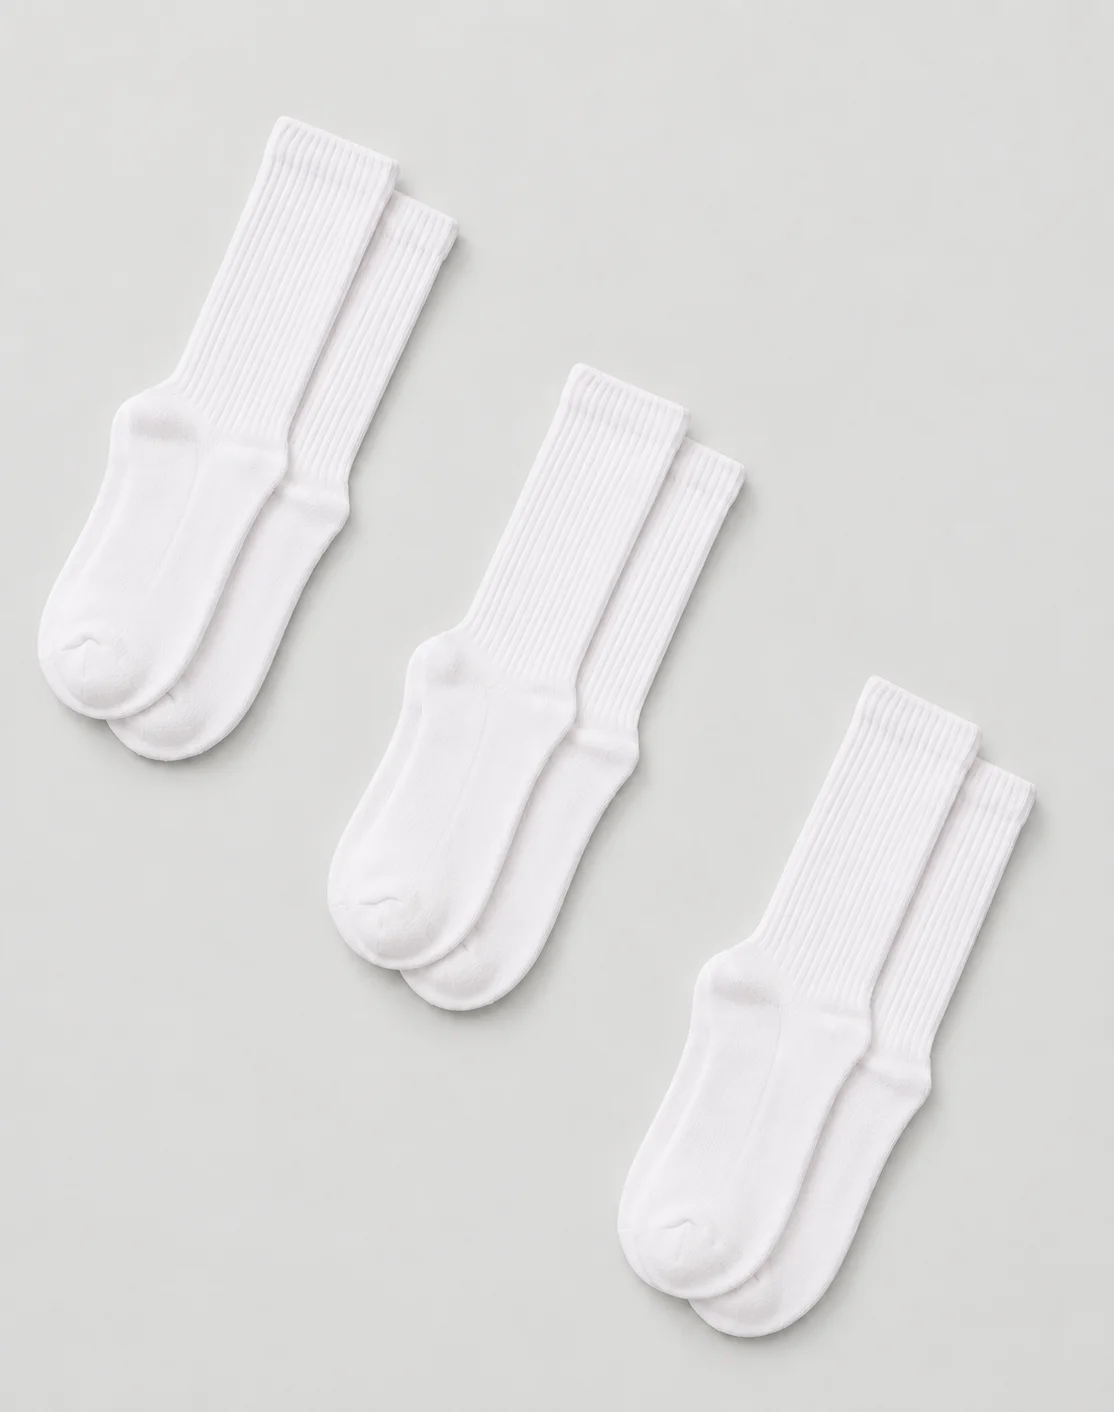
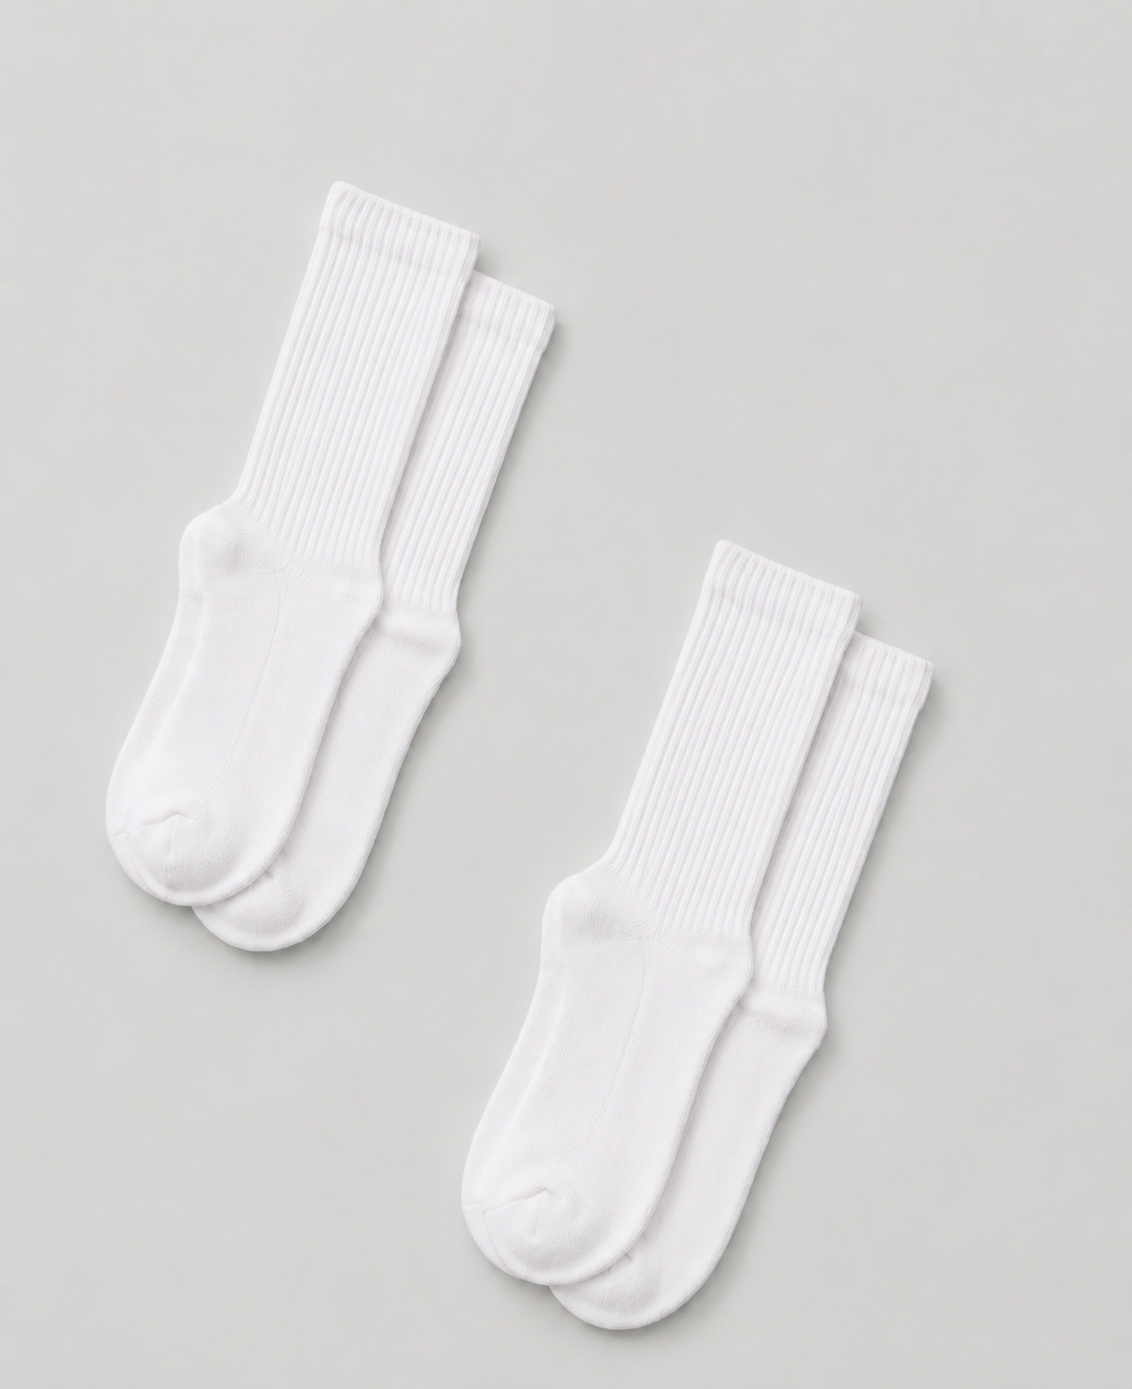
pagina final

diff --git a/uniformes-tienda/src/assets/cumbres.js b/uniformes-tienda/src/assets/cumbres.js
@@ -1,12 +1,10 @@
 import imgCamisetaBambolino from "./Cumbres/_07A9588.webp";
 import imgChompaBambolino1 from "./Cumbres/_07A9459.webp";
-import imgChompaBambolino2 from "./Cumbres/_07A9464.webp";
 import imgDelantalBambolino from "./Cumbres/_07A9606.webp";
 import imgPavaBambolino from "./Cumbres/_07A9570.webp";
 import imgGorraBambolino from "./Cumbres/_07A9576.webp";
 
 import imgSacoTejidoV from "./Cumbres/_07A9472.webp";
-import imgChompaBlancaFem1 from "./Cumbres/_07A9487.webp";
 import imgChompaBlancaFem2 from "./Cumbres/_07A9488.webp";
 import imgDelantalVerdeFem from "./Cumbres/_07A9618.webp";
 import imgFaldaCuadros from "./Cumbres/_07A9473.webp";
@@ -16,7 +14,6 @@ import imgCamisaGalaMasc2 from "./Cumbres/_07A9417.webp";
 import imgDelantalAzulNino from "./Cumbres/_07A9422.webp";
 import imgChompaAzulMasc from "./Cumbres/_07A9450.webp";
 import imgCamisetaFisicaMasc1 from "./Cumbres/_07A9426.webp";
-import imgCamisetaFisicaMasc2 from "./Cumbres/_07A9427.webp";
 
 import imgBlusaGalaHS from "./Cumbres/_07A9499.webp";
 import imgPoloDamaHS from "./Cumbres/_07A9506.webp";
@@ -41,12 +38,10 @@ import imgMediasBlancasFisica from "./Cumbres/medias blancas fisica.webp";
 export {
   imgCamisetaBambolino,
   imgChompaBambolino1,
-  imgChompaBambolino2,
   imgDelantalBambolino,
   imgPavaBambolino,
   imgGorraBambolino,
   imgSacoTejidoV,
-  imgChompaBlancaFem1,
   imgChompaBlancaFem2,
   imgDelantalVerdeFem,
   imgFaldaCuadros,
@@ -55,7 +50,6 @@ export {
   imgDelantalAzulNino,
   imgChompaAzulMasc,
   imgCamisetaFisicaMasc1,
-  imgCamisetaFisicaMasc2,
   imgBlusaGalaHS,
   imgPoloDamaHS,
   imgCamisaGalaHombreHS,